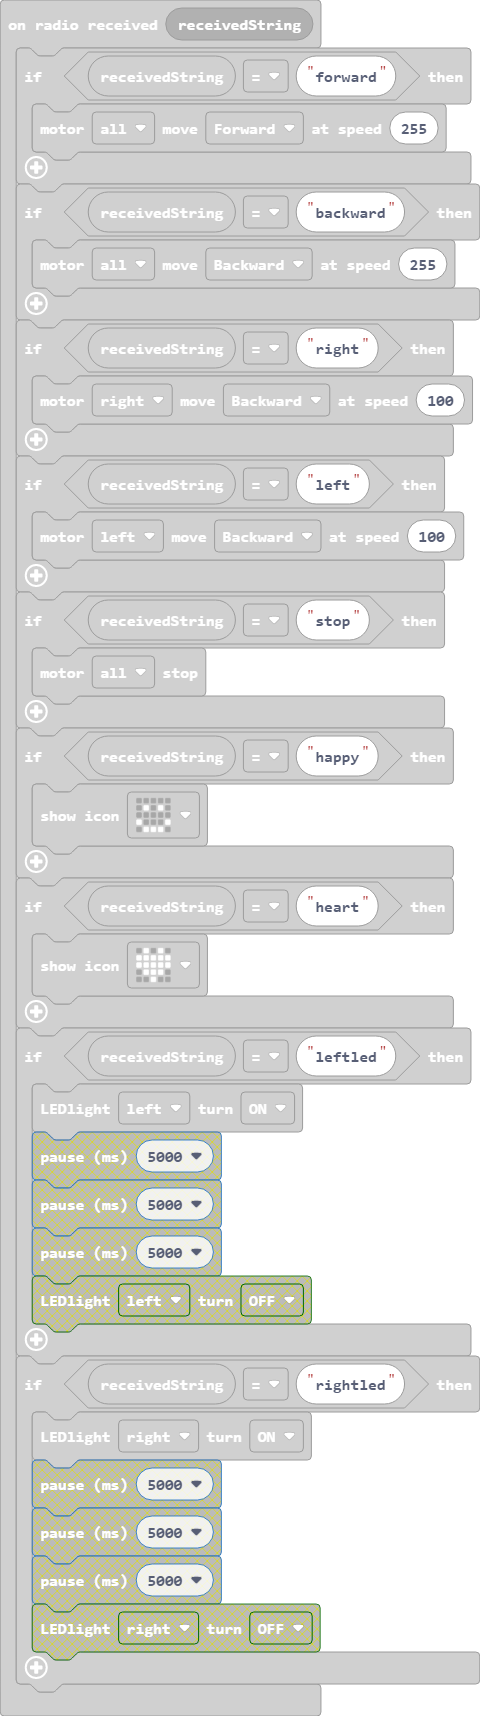
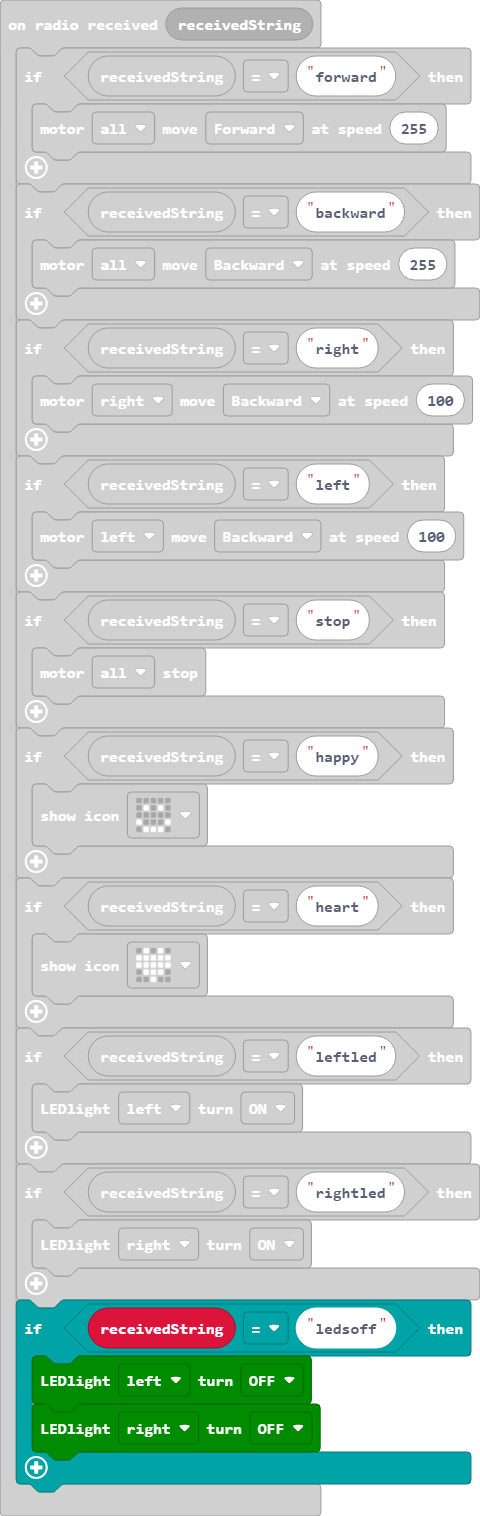
Update main.blocks, main.ts

diff --git a/main.ts b/main.ts
@@ -26,6 +26,10 @@ radio.onReceivedString(function (receivedString) {
     if (receivedString == "rightled") {
         maqueen.writeLED(maqueen.LED.LEDRight, maqueen.LEDswitch.turnOn)
     }
+    if (receivedString == "ledsoff") {
+        maqueen.writeLED(maqueen.LED.LEDLeft, maqueen.LEDswitch.turnOff)
+        maqueen.writeLED(maqueen.LED.LEDRight, maqueen.LEDswitch.turnOff)
+    }
 })
 radio.setGroup(42069)
 let strip = neopixel.create(DigitalPin.P15, 4, NeoPixelMode.RGB)
